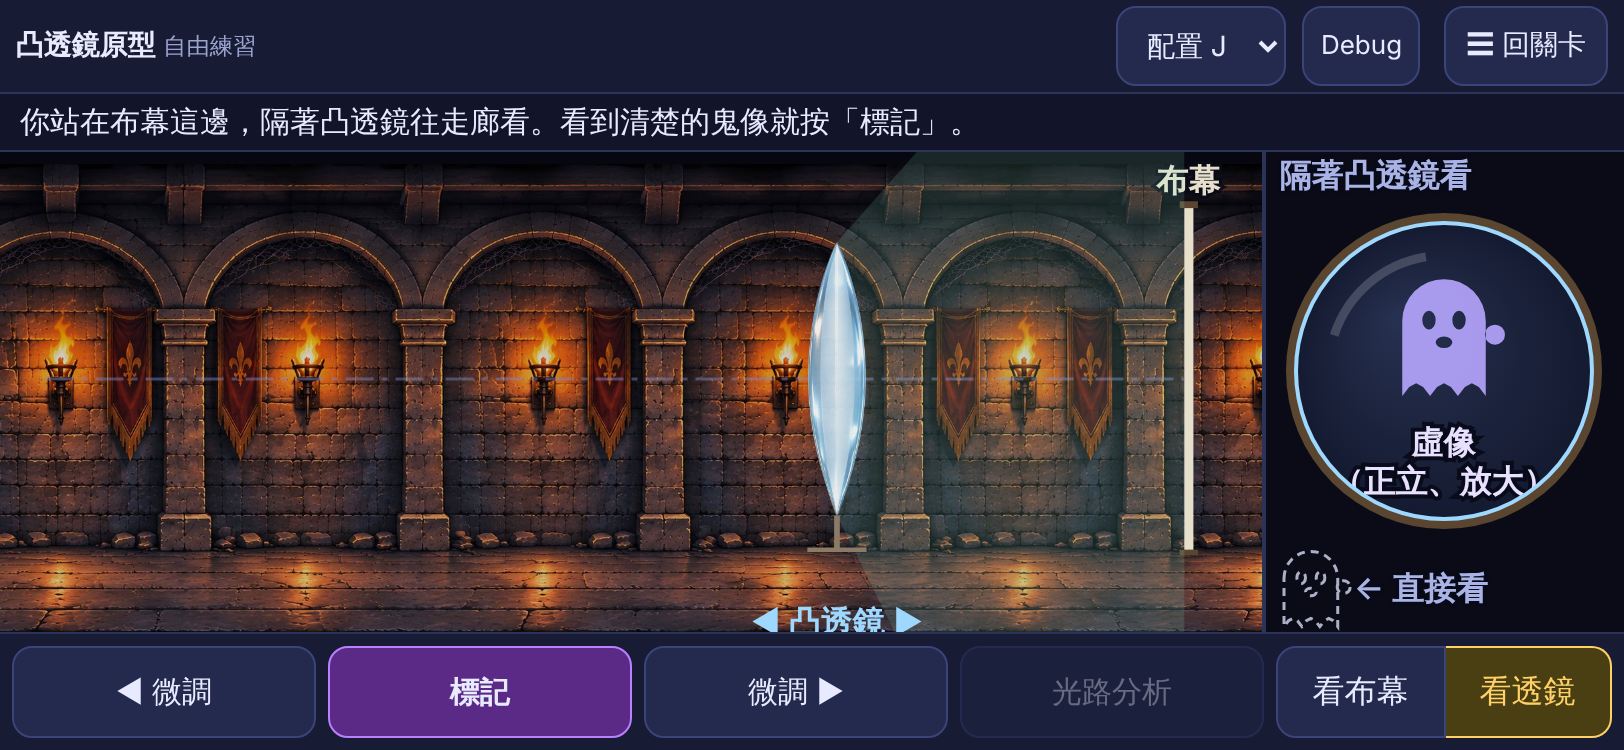
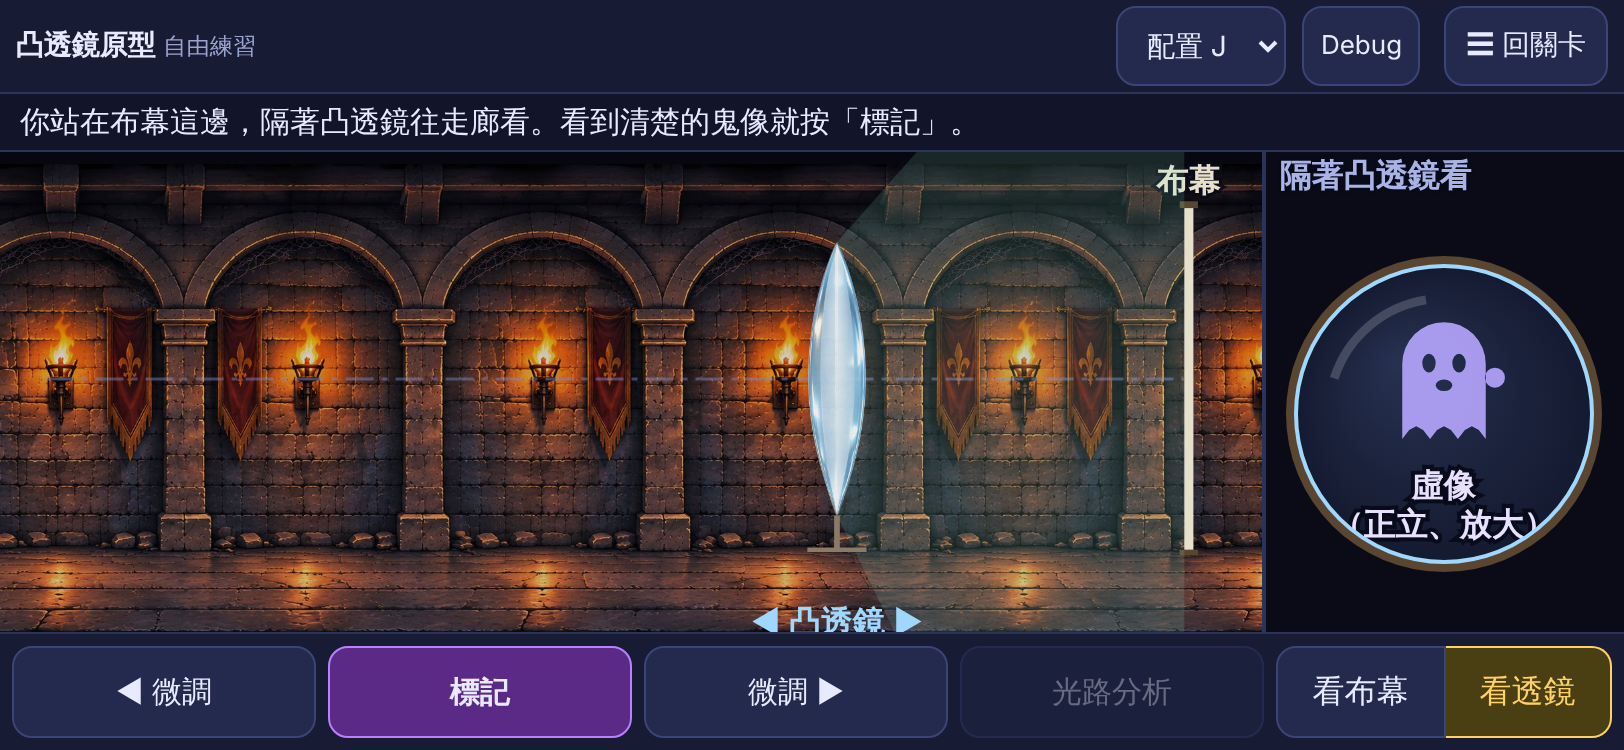
feat(level 2): drop the "← 直接看" reference ghost; lens frame always fills its column
- The reference ghost contradicted "ghost invisible to the naked eye" and its
  size leaked the ghost's distance (findings V5). The lens-view scale no longer
  depends on it, so the frame size no longer varies with the ghost's distance.
- "建議標記別處" only ever appears in the lens view; e2e now checks that marking
  on the screen view never shows it.
- PROJECT.md: user's decisions (real-image questions still allow virtual marks).

Claude-Session: https://claude.ai/code/session_01HvGmyWzkuTK1h2iNPfqEPx

Changed region(s): [[0.7697, 0.276, 0.9852, 0.828]]

diff --git a/prototype/convex-lens/app.js b/prototype/convex-lens/app.js
@@ -319,13 +319,16 @@
     ctx.beginPath(); ctx.rect(r.x, r.y, r.w, r.h); ctx.clip();
     ctx.fillStyle = '#0a0b16'; ctx.fillRect(r.x, r.y, r.w, r.h);
     var k = Math.min((r.w - 2 * pad) / (2 * WORLD.wallHalfWidth), (r.h - 2 * pad - 18) / (2 * WORLD.axisHeight));
-    var foot = Math.round(34 * FS);                              // 底部一列：直接看鬼的大小（對照）
+    // 底部原本有「← 直接看」對照小鬼，使用者 2026-11-21 拿掉（鬼裸眼不可見；大小又會透露距離，findings V5）
+    var foot = 0;
     var cx = r.x + r.w / 2, cy = r.y + 22 + (r.h - 22 - foot) / 2;
     // 鏡框半徑上限：那一欄放得下多大就多大（使用者 2026-11-20 要透鏡和像大一點；原本限制不比布幕寬）
     var maxR = Math.min(r.w / 2 - 16, (r.h - 22 - foot) / 2 - 6);
-    var eye = WORLD.eyeX, D = eye - c.object.x, dLens = eye - state.lensX;
-    var angR = WORLD.lensRadius / dLens, naked = WORLD.ghostHalfHeight / D;
-    var K = Math.min(maxR * 0.3 / naked, maxR / angR);          // 視角（正切）→ 畫面 px；直接看鬼時鬼的半高 = 鏡框上限的 30%
+    var eye = WORLD.eyeX, dLens = eye - state.lensX;
+    var angR = WORLD.lensRadius / dLens;
+    // 視角（正切）→ 畫面 px：鏡框永遠撐滿上限。原本會依「直接看鬼的大小」縮小鏡框（隨鬼的距離變，會透露距離），2026-11-21 拿掉。
+    // 像和鏡框的比例照物理算，不受影響。
+    var K = maxR / angR;
     var rad = angR * K;
     var lv = lensViewNow();
     // 鏡片（正面看是圓形；木框＋玻璃）
@@ -355,15 +358,6 @@
       var my = cy - (state.marker.y / (eye - state.marker.x)) * K;
       drawMarker(cx, my);
     }
-    // 對照：不用透鏡、直接看鬼時看起來的大小（灰色虛線，底部一列）
-    var rw = WORLD.ghostHalfWidth / D * K, rh = naked * K, fy = r.y + r.h - foot / 2;
-    ctx.save(); ctx.globalAlpha = 0.45;
-    if (!(window.GhostSprite && window.GhostSprite.draw(ctx, r.x + 10 + rw, fy, rw, rh, 1, 1, null))) {
-      ctx.globalAlpha = 1; ctx.strokeStyle = 'rgba(200,205,230,.85)'; ctx.setLineDash([4, 3]); ctx.lineWidth = 1.5;
-      ghostPath(ctx, r.x + 10 + rw, fy, rw, rh, 1, 1); ctx.stroke();
-    }
-    ctx.restore();
-    label('← 直接看', r.x + 10 + rw * 2.6, fy, '#aab3e6', 'left');
     label('隔著凸透鏡看', r.x + 8, r.y + 12, '#aab3e6', 'left');
     ctx.restore();
   }

diff --git a/tests/e2e-convex-lens.js b/tests/e2e-convex-lens.js
@@ -767,6 +767,8 @@ async function run(profile, browser) {
     await press('#lookScreen');
     ok(!(await st()).marker, T('切到「看布幕」：虛像標記取消'));
     ok(await page.evaluate(() => { const H = window.__protoConvex; H.render(); return H.stats.lensCaption; }) === null, T('看布幕時沒有「虛像」字樣'));
+    await press('#markBtn'); // 透鏡還在同一個位置（可能就是虛像離透鏡太近的位置），但現在看的是布幕
+    ok(!/建議標記別處/.test((await st()).status), T('看布幕時按標記：不會出現「建議標記別處」（只在看透鏡時才有）'), '「' + (await st()).status + '」');
     await press('#lookLens');
     await press('#markBtn');
     ok(!!(await st()).marker, T('切回「看透鏡」可以重新標記'));

diff --git a/PROJECT.md b/PROJECT.md
@@ -115,6 +115,7 @@
 
 - **女鬼角色圖換上正式版：暫緩**（使用者 2026-11-19）。
 - **正式美術圖已換上（2026-11-19）**：原圖在 `docs/concepts/古堡外觀.png`、`信件.png`、`圓盤.png`、`雜魚00～08.png`（雜魚09 使用者說不用）。轉成手機用的 webp：`plane-mirror/assets/story-castle.webp`、`story-letter.webp`（信件圖＋圓盤合成，照劇本「圓盤壓在信件上面」）、`story-disc.webp`（對話框小圖）、`shared/art/minion-00～08.webp`（第一關、第二關過關時逃散的小鬼，取代 placeholder）。信上的三句字照舊用 HTML 寫在圖中的信紙上（`story-scene.js` 的 `letterOnArt`）。暫代圖程式保留在 `story-art.js`，圖載不到時才用。
+- **第二關「看凸透鏡」（使用者 2026-11-21）**：①拿掉底下「← 直接看」對照小鬼（鬼裸眼不可見；大小又透露距離），鏡框改成固定撐滿那一欄；②虛像不能標記時寫「成像太遠，無法標記。」（狀態列加「再移動看看。」）；③虛像離透鏡 < 60 cm 時提示「建議標記別處」但**仍可標記**，**只在看透鏡時出現**，看布幕不會；④實像題**維持允許**改看透鏡標記虛像（V1／V4 不變）。細節見文末「交接點（凸透鏡虛像太小，2026-11-21）」。
 - **第一關地磚貼圖已換上（2026-11-20）**：使用者給的石磚圖存成 `docs/concepts/地磚.png`，遊戲用 `plane-mirror/assets/floor-tile.webp`（512×512）。一格貼一張，用分塊仿射做透視貼圖；直接看、各面鏡子、鏡中鏡各算一次後快取（`app.js` 的 `floorLayer`）。隔一格壓暗（西洋棋盤，鏡中好數格），格線改成磚邊的銅色、細一點。圖載不到就退回程式畫的地板。**還沒在實體手機上看效能**（第一次畫面出現前要多算一下貼圖）。
 
 ## DO NOT RE-DERIVE
@@ -190,7 +191,7 @@
 24. ①~~「帶不走阿」~~ 2026-11-19 使用者確認是筆誤，已改「帶不走啊」（程式與 Google 劇本）。②~~（等使用者確認）~~（2026-11-21：沒過第一關進不了第二關，「沒有成績」只剩練習模式與 `?unlock=1`，顯示「成功把鬼趕出城堡。」，關閉）**第二關過關台詞的兩個小問題**（原編號重複的 22）（Claude 2026-11-18 實作劇本 2-3 時發現，已照下面做，等使用者確認）：①「但凸透鏡太大了，帶不走**阿**。」照劇本原字，可能是「啊」的筆誤；②劇本只寫了有趕鬼時間的說明「你花費＿＿，把鬼趕出城堡。」，**沒有成績**（直接開網址／跳關）時程式退回劇本舊版「你在走廊封印了 n 隻鬼。下一站：城外的荒野（已解鎖）。」，練習模式只寫封印數。
 25. ~~第三關配置太少~~ **✅ 已做（2026-11-19，這個工作階段；任務卡沒派出去）**：加了 E～L 共 8 組，四個方位各 3 組、同方位答案格都不同（北 3/5/7、東 4/2/6、南 6/3/5、西 7/2/4），每個方位都有鬼在主軸上下方；`check-geometry.js` 加了「防背答案」檢查（277/277），凹透鏡 e2e 手機橫向 12 組全跑（1446/1446）。細節見 `docs/prototype-findings.md` 最後一節。原紀錄：第三關只有 4 組配置，而且每組方位不同（A 東、B 南、C 西、D 北）**（Claude 2026-11-19 做荒野狩獵時發現）：學生玩幾輪就能「鬼在東邊 → 第 4 格」背答案，5 分鐘內同一組會出現好幾次，排行榜封印數會變成比背答案。建議每個方位加幾組不同焦距／格子／高度的配置（答案唯一用 `tests/check-geometry.js` 驗）。這輪照任務「沿用 `configs.js`」沒改。
 26. ~~荒野狩獵結算畫面的排法~~ **使用者 2026-11-19 定案：就照現在合成一個畫面。** 原紀錄：（Claude 2026-11-19）：劇本 3-2 的結尾面板（標題、說明、【再挑戰一次】【回關卡選單】）和排行榜的結算畫面（暱稱、留名上榜）**合成同一個畫面**，避免連跳兩個面板：標題「時間到！」／「狩獵結束」、結算文案、暱稱＋【留名上榜】、【再挑戰一次】【荒野練習模式（第一次）】【看排行榜】【回關卡選單】。「不留名，關閉」改成「回關卡選單」（關閉＝回選單）。
-27. **第二關「看凸透鏡」虛像太小，不像放大鏡**（使用者 2026-11-21）：J～L 已試做改短焦距（還沒定案）；「成像太遠，無法標記。」與「建議標記別處」提示已做；還要決定拉近看、拿掉「← 直接看」。見文末「交接點（凸透鏡虛像太小，2026-11-21）」。
+27. **第二關「看凸透鏡」虛像太小，不像放大鏡**（使用者 2026-11-21）：J～L 已試做改短焦距（還沒定案）；兩種提示已做、「← 直接看」已拿掉；還要決定短焦距留不留、要不要拉近看。見文末「交接點（凸透鏡虛像太小，2026-11-21）」。
 13. ~~第一關等使用者試玩後決定~~（2026-11-17 使用者都已回覆，見 CONFIRMED；以下保留原題目）（`docs/prototype-findings-mirror.md`）：選格黃框與法陣不出現在鏡子裡可以嗎（ISSUE 5）；鬼的像在正面鏡裡沒有左右相反要不要調整（ISSUE 6）；鏡中要不要畫玩家自己的剪影（ISSUE 7）；鏡中鏡的第二個像要不要留（ISSUE 8）；台詞（第 13 點）；背景圖要不要重畫成落地鏡、玩家站近一點（ISSUE 1～3）。
 
 ---
@@ -482,7 +483,9 @@
 - **✅ 已做（使用者 2026-11-21 指定文字）**：虛像不能標記（落在走廊外，或像高超出 `virtualMaxY`）時，鏡片裡原本寫「虛像（正立、放大）」的地方改寫「**成像太遠，無法標記。**」（放不下就拆兩行）；按「標記」時狀態列寫「**成像太遠，無法標記。再移動看看。**」（取代舊的「透鏡裡的鬼放大得太厲害……」）。改在 `convex-lens/app.js` 的 `lensCaption`（`TOO_FAR_CAPTION`）與 `markVirtual`，只動這兩處；Claude 用 headless 截圖看過 J 題透鏡推過可標記範圍時的畫面。
 - **✅ 已做（使用者 2026-11-21）：虛像標記太靠近透鏡時提示「建議標記別處」，但仍可標記**（使用者：「他如果硬要選，也給他選」）。使用者一度要拿掉 J 題，試玩後發現不是 J 的問題，是每題透鏡太靠近鬼時都會發生（虛像標記貼在透鏡上，側視圖畫線擠在一起），所以 **J 留著**。條件：虛像到透鏡 < 60 cm（`app.js` 的 `NEAR_IMAGE_CM`、`imageTooNear`）。鏡片裡在「虛像（正立、放大）」下多一行「建議標記別處」（三行時文字往鏡片中心移，免得被圓框切掉）；按標記後狀態列在台詞後面加「（像離透鏡太近，畫線會擠在一起，建議標記別處。）」。虛像題大約 1/3 的可標記透鏡位置會出現（靠近鬼的那一端），範圍中點都不會；實像題改標虛像（V4）時常常會出現（E、F 的範圍中點就會）。這也回答了 findings 的 V3（原本提議放大率 ≥ 1.4 才能標記）：改成提示、不禁止。
 - 測試修正：`tests/e2e-convex-level.js` 原本「抓錯」都施放在透鏡所在的格，假設那格一定不是答案；J 改 f=110 後透鏡在第 4 格＝答案，發牌剛好發到 J 時測試會失敗（看起來像偶發）。改成 `wrongCell()`：同格就改抓隔壁格。`tests/e2e-convex-lens.js` 的鏡框字樣檢查改成允許多一行「建議標記別處」。
-- **等使用者決定**：①這組短焦距要不要留；②要不要再加「拉近看」讓鬼塞滿；③拿掉「← 直接看」對照輪廓（Claude 已說明它是「不用透鏡直接看鬼會多大」的對照，和「鬼裸眼不可見」矛盾、又會透露距離；使用者傾向拿掉）。②③要改 `convex-lens/app.js`。
+- **✅ 已做（使用者 2026-11-21）**：拿掉「← 直接看」對照小鬼。鏡框比例原本依「直接看鬼的大小」縮小（`K = min(maxR*0.3/naked, maxR/angR)`，會隨鬼的距離變），改成永遠撐滿上限 `K = maxR/angR`（解決 findings V5）；像和鏡框的比例照物理算不變。橫向手機上鏡框受那一欄寬度限制，所以沒有變大。
+- **✅ 使用者 2026-11-21 定案**：實像題維持允許改看透鏡標記虛像；「建議標記別處」只在看透鏡時出現，看布幕不會（e2e 新增一項驗證）。
+- **等使用者決定**：①這組短焦距（J 110、K 120、L 170）要不要留；②要不要再加「拉近看」讓鬼塞滿（要改 `convex-lens/app.js`）。
 - 這輪的分支 `claude/cool-mendel-doqbo1` 建在 `claude/amazing-lamport-4kx8tr` 之上（快轉進來，沒有衝突），所以包含它的所有提交。
 - **檔案分工**：這個工作階段改了 `prototype/convex-lens/configs.js`（虛像題 J～L）、`convex-lens/app.js`（只有 `lensCaption`／`markVirtual`／`renderLensView` 的提示文字，使用者同意；該檔也歸「試玩網址版」工作階段，那邊再改時先 `git merge origin/claude/cool-mendel-doqbo1` 或等兩支都併進 main）、`tests/e2e-convex-level.js`（`wrongCell`）、`tests/e2e-convex-lens.js`（鏡框字樣一項）、`PROJECT.md`（這一段）。
 
